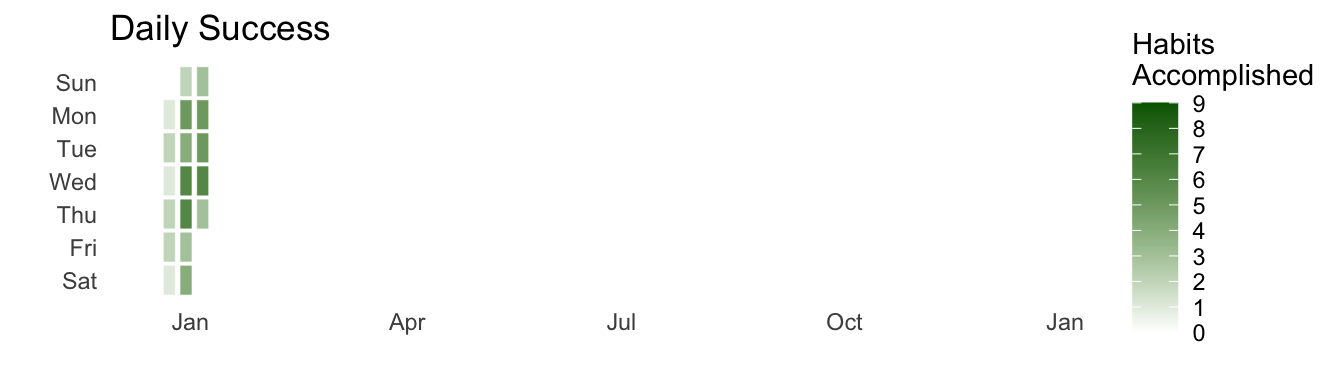
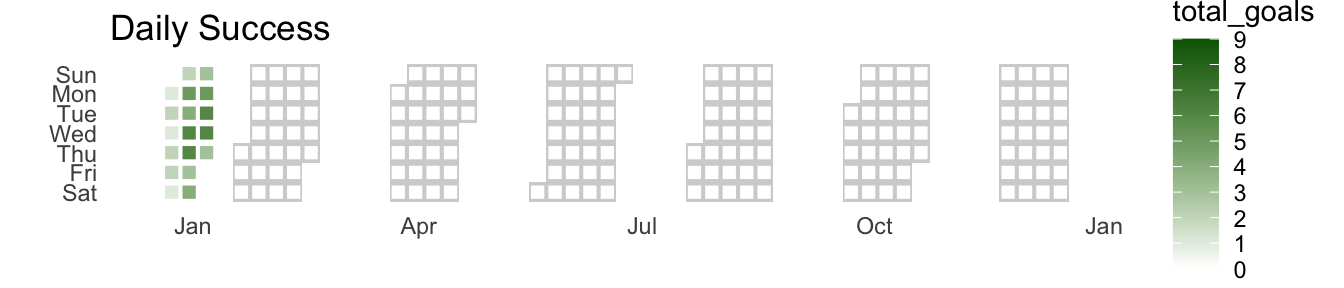
update

diff --git a/docs/goals.html b/docs/goals.html
@@ -877,7 +877,7 @@ These goals are correlated with, but not causal to happiness.
 <td headers="stub_1_3 🏋🏼♂" class="gt_row gt_center" style="background-color: #006400; color: rgba(255,255,255,0); border-right-width: 1px; border-right-style: solid; border-right-color: white;">1</td>
 <td headers="stub_1_3 🧘🏼♂" class="gt_row gt_center" style="background-color: #FFFFFF; color: rgba(255,255,255,0); border-right-width: 1px; border-right-style: solid; border-right-color: white;">0</td>
 <td headers="stub_1_3 🛐" class="gt_row gt_center" style="background-color: #006400; color: rgba(255,255,255,0); border-right-width: 1px; border-right-style: solid; border-right-color: white;">1</td>
-<td headers="stub_1_3 🔗" class="gt_row gt_center" style="background-color: #FFFFFF; color: rgba(255,255,255,0); border-right-width: 1px; border-right-style: solid; border-right-color: white;">0</td></tr>
+<td headers="stub_1_3 🔗" class="gt_row gt_center" style="background-color: #006400; color: rgba(255,255,255,0); border-right-width: 1px; border-right-style: solid; border-right-color: white;">1</td></tr>
     <tr><th id="stub_1_4" scope="row" class="gt_row gt_center gt_stub">Mon 1/15</th>
 <td headers="stub_1_4 ☀" class="gt_row gt_center" style="background-color: #FFFFFF; color: rgba(255,255,255,0); border-right-width: 1px; border-right-style: solid; border-right-color: white;">0</td>
 <td headers="stub_1_4 💧" class="gt_row gt_center" style="background-color: #FFFFFF; color: rgba(255,255,255,0); border-right-width: 1px; border-right-style: solid; border-right-color: white;">0</td>
@@ -1017,23 +1017,23 @@ These goals are correlated with, but not causal to happiness.
 <div id="fig-peloton" class="quarto-figure quarto-figure-center anchored page-columns page-full">
 <figure class="figure page-columns page-full">
 
-<div id="sloghxnbgy" style="padding-left:0px;padding-right:0px;padding-top:10px;padding-bottom:10px;overflow-x:auto;overflow-y:auto;width:auto;height:auto;">
-<style>#sloghxnbgy table {
+<div id="yxrktnvcix" style="padding-left:0px;padding-right:0px;padding-top:10px;padding-bottom:10px;overflow-x:auto;overflow-y:auto;width:auto;height:auto;">
+<style>#yxrktnvcix table {
   font-family: system-ui, 'Segoe UI', Roboto, Helvetica, Arial, sans-serif, 'Apple Color Emoji', 'Segoe UI Emoji', 'Segoe UI Symbol', 'Noto Color Emoji';
   -webkit-font-smoothing: antialiased;
   -moz-osx-font-smoothing: grayscale;
 }
 
-#sloghxnbgy thead, #sloghxnbgy tbody, #sloghxnbgy tfoot, #sloghxnbgy tr, #sloghxnbgy td, #sloghxnbgy th {
+#yxrktnvcix thead, #yxrktnvcix tbody, #yxrktnvcix tfoot, #yxrktnvcix tr, #yxrktnvcix td, #yxrktnvcix th {
   border-style: none;
 }
 
-#sloghxnbgy p {
+#yxrktnvcix p {
   margin: 0;
   padding: 0;
 }
 
-#sloghxnbgy .gt_table {
+#yxrktnvcix .gt_table {
   display: table;
   border-collapse: collapse;
   line-height: normal;
@@ -1059,12 +1059,12 @@ These goals are correlated with, but not causal to happiness.
   border-left-color: #D3D3D3;
 }
 
-#sloghxnbgy .gt_caption {
+#yxrktnvcix .gt_caption {
   padding-top: 4px;
   padding-bottom: 4px;
 }
 
-#sloghxnbgy .gt_title {
+#yxrktnvcix .gt_title {
   color: #333333;
   font-size: 125%;
   font-weight: initial;
@@ -1076,7 +1076,7 @@ These goals are correlated with, but not causal to happiness.
   border-bottom-width: 0;
 }
 
-#sloghxnbgy .gt_subtitle {
+#yxrktnvcix .gt_subtitle {
   color: #333333;
   font-size: 85%;
   font-weight: initial;
@@ -1088,7 +1088,7 @@ These goals are correlated with, but not causal to happiness.
   border-top-width: 0;
 }
 
-#sloghxnbgy .gt_heading {
+#yxrktnvcix .gt_heading {
   background-color: #FFFFFF;
   text-align: center;
   border-bottom-color: #FFFFFF;
@@ -1100,13 +1100,13 @@ These goals are correlated with, but not causal to happiness.
   border-right-color: #D3D3D3;
 }
 
-#sloghxnbgy .gt_bottom_border {
+#yxrktnvcix .gt_bottom_border {
   border-bottom-style: solid;
   border-bottom-width: 2px;
   border-bottom-color: #D3D3D3;
 }
 
-#sloghxnbgy .gt_col_headings {
+#yxrktnvcix .gt_col_headings {
   border-top-style: solid;
   border-top-width: 2px;
   border-top-color: #D3D3D3;
@@ -1121,7 +1121,7 @@ These goals are correlated with, but not causal to happiness.
   border-right-color: #D3D3D3;
 }
 
-#sloghxnbgy .gt_col_heading {
+#yxrktnvcix .gt_col_heading {
   color: #333333;
   background-color: #FFFFFF;
   font-size: 100%;
@@ -1141,7 +1141,7 @@ These goals are correlated with, but not causal to happiness.
   overflow-x: hidden;
 }
 
-#sloghxnbgy .gt_column_spanner_outer {
+#yxrktnvcix .gt_column_spanner_outer {
   color: #333333;
   background-color: #FFFFFF;
   font-size: 100%;
@@ -1153,15 +1153,15 @@ These goals are correlated with, but not causal to happiness.
   padding-right: 4px;
 }
 
-#sloghxnbgy .gt_column_spanner_outer:first-child {
+#yxrktnvcix .gt_column_spanner_outer:first-child {
   padding-left: 0;
 }
 
-#sloghxnbgy .gt_column_spanner_outer:last-child {
+#yxrktnvcix .gt_column_spanner_outer:last-child {
   padding-right: 0;
 }
 
-#sloghxnbgy .gt_column_spanner {
+#yxrktnvcix .gt_column_spanner {
   border-bottom-style: solid;
   border-bottom-width: 2px;
   border-bottom-color: #D3D3D3;
@@ -1173,11 +1173,11 @@ These goals are correlated with, but not causal to happiness.
   width: 100%;
 }
 
-#sloghxnbgy .gt_spanner_row {
+#yxrktnvcix .gt_spanner_row {
   border-bottom-style: hidden;
 }
 
-#sloghxnbgy .gt_group_heading {
+#yxrktnvcix .gt_group_heading {
   padding-top: 8px;
   padding-bottom: 8px;
   padding-left: 5px;
@@ -1203,7 +1203,7 @@ These goals are correlated with, but not causal to happiness.
   text-align: left;
 }
 
-#sloghxnbgy .gt_empty_group_heading {
+#yxrktnvcix .gt_empty_group_heading {
   padding: 0.5px;
   color: #333333;
   background-color: #FFFFFF;
@@ -1218,15 +1218,15 @@ These goals are correlated with, but not causal to happiness.
   vertical-align: middle;
 }
 
-#sloghxnbgy .gt_from_md > :first-child {
+#yxrktnvcix .gt_from_md > :first-child {
   margin-top: 0;
 }
 
-#sloghxnbgy .gt_from_md > :last-child {
+#yxrktnvcix .gt_from_md > :last-child {
   margin-bottom: 0;
 }
 
-#sloghxnbgy .gt_row {
+#yxrktnvcix .gt_row {
   padding-top: 8px;
   padding-bottom: 8px;
   padding-left: 5px;
@@ -1245,7 +1245,7 @@ These goals are correlated with, but not causal to happiness.
   overflow-x: hidden;
 }
 
-#sloghxnbgy .gt_stub {
+#yxrktnvcix .gt_stub {
   color: #333333;
   background-color: #FFFFFF;
   font-size: 100%;
@@ -1258,7 +1258,7 @@ These goals are correlated with, but not causal to happiness.
   padding-right: 5px;
 }
 
-#sloghxnbgy .gt_stub_row_group {
+#yxrktnvcix .gt_stub_row_group {
   color: #333333;
   background-color: #FFFFFF;
   font-size: 100%;
@@ -1272,15 +1272,15 @@ These goals are correlated with, but not causal to happiness.
   vertical-align: top;
 }
 
-#sloghxnbgy .gt_row_group_first td {
+#yxrktnvcix .gt_row_group_first td {
   border-top-width: 2px;
 }
 
-#sloghxnbgy .gt_row_group_first th {
+#yxrktnvcix .gt_row_group_first th {
   border-top-width: 2px;
 }
 
-#sloghxnbgy .gt_summary_row {
+#yxrktnvcix .gt_summary_row {
   color: #333333;
   background-color: #FFFFFF;
   text-transform: inherit;
@@ -1290,16 +1290,16 @@ These goals are correlated with, but not causal to happiness.
   padding-right: 5px;
 }
 
-#sloghxnbgy .gt_first_summary_row {
+#yxrktnvcix .gt_first_summary_row {
   border-top-style: solid;
   border-top-color: #D3D3D3;
 }
 
-#sloghxnbgy .gt_first_summary_row.thick {
+#yxrktnvcix .gt_first_summary_row.thick {
   border-top-width: 2px;
 }
 
-#sloghxnbgy .gt_last_summary_row {
+#yxrktnvcix .gt_last_summary_row {
   padding-top: 8px;
   padding-bottom: 8px;
   padding-left: 5px;
@@ -1309,7 +1309,7 @@ These goals are correlated with, but not causal to happiness.
   border-bottom-color: #D3D3D3;
 }
 
-#sloghxnbgy .gt_grand_summary_row {
+#yxrktnvcix .gt_grand_summary_row {
   color: #333333;
   background-color: #FFFFFF;
   text-transform: inherit;
@@ -1319,7 +1319,7 @@ These goals are correlated with, but not causal to happiness.
   padding-right: 5px;
 }
 
-#sloghxnbgy .gt_first_grand_summary_row {
+#yxrktnvcix .gt_first_grand_summary_row {
   padding-top: 8px;
   padding-bottom: 8px;
   padding-left: 5px;
@@ -1329,7 +1329,7 @@ These goals are correlated with, but not causal to happiness.
   border-top-color: #D3D3D3;
 }
 
-#sloghxnbgy .gt_last_grand_summary_row_top {
+#yxrktnvcix .gt_last_grand_summary_row_top {
   padding-top: 8px;
   padding-bottom: 8px;
   padding-left: 5px;
@@ -1339,11 +1339,11 @@ These goals are correlated with, but not causal to happiness.
   border-bottom-color: #D3D3D3;
 }
 
-#sloghxnbgy .gt_striped {
+#yxrktnvcix .gt_striped {
   background-color: rgba(128, 128, 128, 0.05);
 }
 
-#sloghxnbgy .gt_table_body {
+#yxrktnvcix .gt_table_body {
   border-top-style: solid;
   border-top-width: 2px;
   border-top-color: #D3D3D3;
@@ -1352,7 +1352,7 @@ These goals are correlated with, but not causal to happiness.
   border-bottom-color: #D3D3D3;
 }
 
-#sloghxnbgy .gt_footnotes {
+#yxrktnvcix .gt_footnotes {
   color: #333333;
   background-color: #FFFFFF;
   border-bottom-style: none;
@@ -1366,7 +1366,7 @@ These goals are correlated with, but not causal to happiness.
   border-right-color: #D3D3D3;
 }
 
-#sloghxnbgy .gt_footnote {
+#yxrktnvcix .gt_footnote {
   margin: 0px;
   font-size: 90%;
   padding-top: 4px;
@@ -1375,7 +1375,7 @@ These goals are correlated with, but not causal to happiness.
   padding-right: 5px;
 }
 
-#sloghxnbgy .gt_sourcenotes {
+#yxrktnvcix .gt_sourcenotes {
   color: #333333;
   background-color: #FFFFFF;
   border-bottom-style: none;
@@ -1389,7 +1389,7 @@ These goals are correlated with, but not causal to happiness.
   border-right-color: #D3D3D3;
 }
 
-#sloghxnbgy .gt_sourcenote {
+#yxrktnvcix .gt_sourcenote {
   font-size: 90%;
   padding-top: 4px;
   padding-bottom: 4px;
@@ -1397,63 +1397,63 @@ These goals are correlated with, but not causal to happiness.
   padding-right: 5px;
 }
 
-#sloghxnbgy .gt_left {
+#yxrktnvcix .gt_left {
   text-align: left;
 }
 
-#sloghxnbgy .gt_center {
+#yxrktnvcix .gt_center {
   text-align: center;
 }
 
-#sloghxnbgy .gt_right {
+#yxrktnvcix .gt_right {
   text-align: right;
   font-variant-numeric: tabular-nums;
 }
 
-#sloghxnbgy .gt_font_normal {
+#yxrktnvcix .gt_font_normal {
   font-weight: normal;
 }
 
-#sloghxnbgy .gt_font_bold {
+#yxrktnvcix .gt_font_bold {
   font-weight: bold;
 }
 
-#sloghxnbgy .gt_font_italic {
+#yxrktnvcix .gt_font_italic {
   font-style: italic;
 }
 
-#sloghxnbgy .gt_super {
+#yxrktnvcix .gt_super {
   font-size: 65%;
 }
 
-#sloghxnbgy .gt_footnote_marks {
+#yxrktnvcix .gt_footnote_marks {
   font-size: 75%;
   vertical-align: 0.4em;
   position: initial;
 }
 
-#sloghxnbgy .gt_asterisk {
+#yxrktnvcix .gt_asterisk {
   font-size: 100%;
   vertical-align: 0;
 }
 
-#sloghxnbgy .gt_indent_1 {
+#yxrktnvcix .gt_indent_1 {
   text-indent: 5px;
 }
 
-#sloghxnbgy .gt_indent_2 {
+#yxrktnvcix .gt_indent_2 {
   text-indent: 10px;
 }
 
-#sloghxnbgy .gt_indent_3 {
+#yxrktnvcix .gt_indent_3 {
   text-indent: 15px;
 }
 
-#sloghxnbgy .gt_indent_4 {
+#yxrktnvcix .gt_indent_4 {
   text-indent: 20px;
 }
 
-#sloghxnbgy .gt_indent_5 {
+#yxrktnvcix .gt_indent_5 {
   text-indent: 25px;
 }
 </style>
@@ -1581,7 +1581,7 @@ Wednesday January 17, 2024
 x
 </td>
 </tr>
-<tr data-index="2" data-categories="goals" data-listing-date-sort="1705392000000" data-listing-file-modified-sort="1705607915359" data-listing-reading-time-sort="0.05" data-listing-title-sort="2024-01-16" data-listing-filename-sort="2024-01-16.md">
+<tr data-index="2" data-categories="goals" data-listing-date-sort="1705392000000" data-listing-file-modified-sort="1705611489359" data-listing-reading-time-sort="0.05" data-listing-title-sort="2024-01-16" data-listing-filename-sort="2024-01-16.md">
 <td class="listing-date">
 Tuesday January 16, 2024
 </td>
